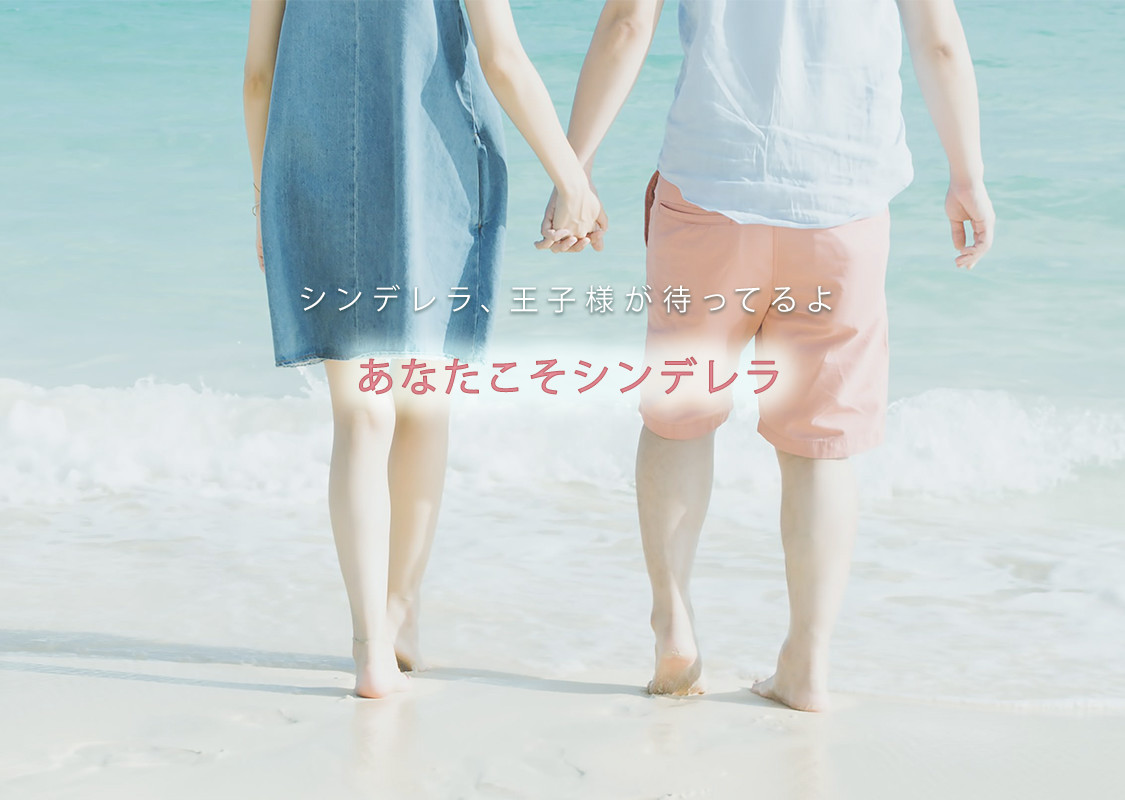
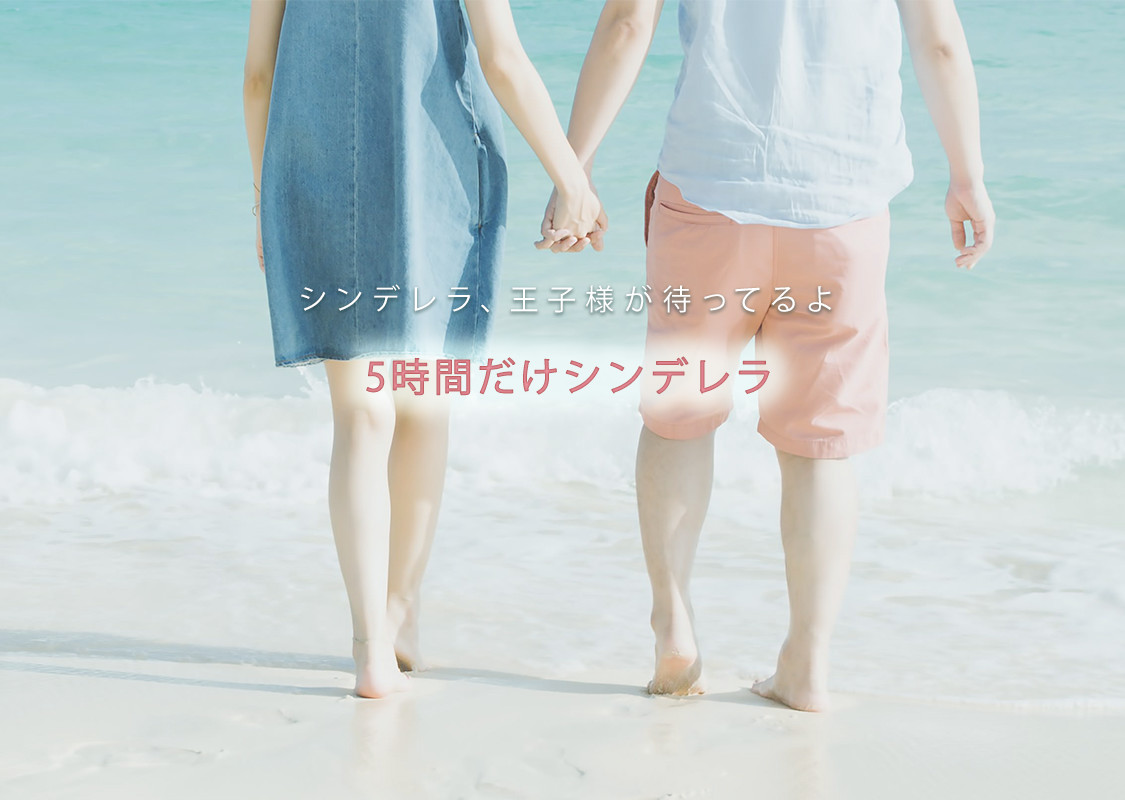
タイトルとかを5時間のに変更

Changed region(s): [[0.28, 0.4375, 0.7156, 0.5]]

diff --git a/public/contact.html b/public/contact.html
@@ -3,8 +3,8 @@
   <head>
     <meta charset="utf-8">
     <!-- meta-->
-    <title>シンデレラ、王子様が待ってるよ「あなたこそシンデレラ」</title>
-    <meta name="description" content="おかえりなさい「シンデレラ」 あなたをあるべき姿、あるべきところに。 今夜、本当のあなたに戻って欲しい。">
+    <title>「5時間だけシンデレラ」胸キュン恋愛アプリ</title>
+    <meta name="description" content="19時〜24時の「5時間限定」で運命が訪れる。新感覚！恋愛アプリ「5時間だけシンデレラ」">
     <link rel="shortcut icon" href="/img/favicon.png" type="image/vnd.microsoft.icon">
     <link rel="icon" href="/img/favicon.png" type="image/vnd.microsoft.icon">
     <meta http-equiv="X-UA-Compatible" content="IE=Edge">
@@ -18,14 +18,14 @@
     <meta property="og:image:width" content="1200">
     <meta property="og:image:height" content="630">
     <meta property="og:type" content="website">
-    <meta property="og:title" content="シンデレラ、王子様が待ってるよ「あなたこそシンデレラ」">
-    <meta property="og:site_name" content="シンデレラ、王子様が待ってるよ「あなたこそシンデレラ」">
-    <meta property="og:description" content="おかえりなさい「シンデレラ」 あなたをあるべき姿、あるべきところに。 今夜、本当のあなたに戻って欲しい。">
+    <meta property="og:title" content="「5時間だけシンデレラ」胸キュン恋愛アプリ">
+    <meta property="og:site_name" content="「5時間だけシンデレラ」胸キュン恋愛アプリ">
+    <meta property="og:description" content="19時〜24時の「5時間限定」で運命が訪れる。新感覚！恋愛アプリ「5時間だけシンデレラ」">
     <meta property="og:locale" content="ja_JP">
     <!-- twitter card-->
     <meta property="twitter:card" content="summary_large_image">
-    <meta property="twitter:title" content="シンデレラ、王子様が待ってるよ「あなたこそシンデレラ」">
-    <meta property="twitter:description" content="おかえりなさい「シンデレラ」 あなたをあるべき姿、あるべきところに。 今夜、本当のあなたに戻って欲しい。">
+    <meta property="twitter:title" content="「5時間だけシンデレラ」胸キュン恋愛アプリ">
+    <meta property="twitter:description" content="19時〜24時の「5時間限定」で運命が訪れる。新感覚！恋愛アプリ「5時間だけシンデレラ」">
     <meta property="twitter:image" content="https://cinderella-castle.com/img/ogp.jpg">
     <!-- canonical url-->
     <link rel="canonical" href="https://cinderella-castle.com">

diff --git a/public/index.html b/public/index.html
@@ -3,8 +3,8 @@
   <head>
     <meta charset="utf-8">
     <!-- meta-->
-    <title>シンデレラ、王子様が待ってるよ「あなたこそシンデレラ」</title>
-    <meta name="description" content="おかえりなさい「シンデレラ」 あなたをあるべき姿、あるべきところに。 今夜、本当のあなたに戻って欲しい。">
+    <title>「5時間だけシンデレラ」胸キュン恋愛アプリ</title>
+    <meta name="description" content="19時〜24時の「5時間限定」で運命が訪れる。新感覚！恋愛アプリ「5時間だけシンデレラ」">
     <link rel="shortcut icon" href="/img/favicon.png" type="image/vnd.microsoft.icon">
     <link rel="icon" href="/img/favicon.png" type="image/vnd.microsoft.icon">
     <meta http-equiv="X-UA-Compatible" content="IE=Edge">
@@ -18,14 +18,14 @@
     <meta property="og:image:width" content="1200">
     <meta property="og:image:height" content="630">
     <meta property="og:type" content="website">
-    <meta property="og:title" content="シンデレラ、王子様が待ってるよ「あなたこそシンデレラ」">
-    <meta property="og:site_name" content="シンデレラ、王子様が待ってるよ「あなたこそシンデレラ」">
-    <meta property="og:description" content="おかえりなさい「シンデレラ」 あなたをあるべき姿、あるべきところに。 今夜、本当のあなたに戻って欲しい。">
+    <meta property="og:title" content="「5時間だけシンデレラ」胸キュン恋愛アプリ">
+    <meta property="og:site_name" content="「5時間だけシンデレラ」胸キュン恋愛アプリ">
+    <meta property="og:description" content="19時〜24時の「5時間限定」で運命が訪れる。新感覚！恋愛アプリ「5時間だけシンデレラ」">
     <meta property="og:locale" content="ja_JP">
     <!-- twitter card-->
     <meta property="twitter:card" content="summary_large_image">
-    <meta property="twitter:title" content="シンデレラ、王子様が待ってるよ「あなたこそシンデレラ」">
-    <meta property="twitter:description" content="おかえりなさい「シンデレラ」 あなたをあるべき姿、あるべきところに。 今夜、本当のあなたに戻って欲しい。">
+    <meta property="twitter:title" content="「5時間だけシンデレラ」胸キュン恋愛アプリ">
+    <meta property="twitter:description" content="19時〜24時の「5時間限定」で運命が訪れる。新感覚！恋愛アプリ「5時間だけシンデレラ」">
     <meta property="twitter:image" content="https://cinderella-castle.com/img/ogp.jpg">
     <!-- canonical url-->
     <link rel="canonical" href="https://cinderella-castle.com">

diff --git a/public/law.html b/public/law.html
@@ -3,8 +3,8 @@
   <head>
     <meta charset="utf-8">
     <!-- meta-->
-    <title>シンデレラ、王子様が待ってるよ「あなたこそシンデレラ」</title>
-    <meta name="description" content="おかえりなさい「シンデレラ」 あなたをあるべき姿、あるべきところに。 今夜、本当のあなたに戻って欲しい。">
+    <title>「5時間だけシンデレラ」胸キュン恋愛アプリ</title>
+    <meta name="description" content="19時〜24時の「5時間限定」で運命が訪れる。新感覚！恋愛アプリ「5時間だけシンデレラ」">
     <link rel="shortcut icon" href="/img/favicon.png" type="image/vnd.microsoft.icon">
     <link rel="icon" href="/img/favicon.png" type="image/vnd.microsoft.icon">
     <meta http-equiv="X-UA-Compatible" content="IE=Edge">
@@ -18,14 +18,14 @@
     <meta property="og:image:width" content="1200">
     <meta property="og:image:height" content="630">
     <meta property="og:type" content="website">
-    <meta property="og:title" content="シンデレラ、王子様が待ってるよ「あなたこそシンデレラ」">
-    <meta property="og:site_name" content="シンデレラ、王子様が待ってるよ「あなたこそシンデレラ」">
-    <meta property="og:description" content="おかえりなさい「シンデレラ」 あなたをあるべき姿、あるべきところに。 今夜、本当のあなたに戻って欲しい。">
+    <meta property="og:title" content="「5時間だけシンデレラ」胸キュン恋愛アプリ">
+    <meta property="og:site_name" content="「5時間だけシンデレラ」胸キュン恋愛アプリ">
+    <meta property="og:description" content="19時〜24時の「5時間限定」で運命が訪れる。新感覚！恋愛アプリ「5時間だけシンデレラ」">
     <meta property="og:locale" content="ja_JP">
     <!-- twitter card-->
     <meta property="twitter:card" content="summary_large_image">
-    <meta property="twitter:title" content="シンデレラ、王子様が待ってるよ「あなたこそシンデレラ」">
-    <meta property="twitter:description" content="おかえりなさい「シンデレラ」 あなたをあるべき姿、あるべきところに。 今夜、本当のあなたに戻って欲しい。">
+    <meta property="twitter:title" content="「5時間だけシンデレラ」胸キュン恋愛アプリ">
+    <meta property="twitter:description" content="19時〜24時の「5時間限定」で運命が訪れる。新感覚！恋愛アプリ「5時間だけシンデレラ」">
     <meta property="twitter:image" content="https://cinderella-castle.com/img/ogp.jpg">
     <!-- canonical url-->
     <link rel="canonical" href="https://cinderella-castle.com">

diff --git a/public/point.html b/public/point.html
@@ -3,8 +3,8 @@
   <head>
     <meta charset="utf-8">
     <!-- meta-->
-    <title>シンデレラ、王子様が待ってるよ「あなたこそシンデレラ」</title>
-    <meta name="description" content="おかえりなさい「シンデレラ」 あなたをあるべき姿、あるべきところに。 今夜、本当のあなたに戻って欲しい。">
+    <title>「5時間だけシンデレラ」胸キュン恋愛アプリ</title>
+    <meta name="description" content="19時〜24時の「5時間限定」で運命が訪れる。新感覚！恋愛アプリ「5時間だけシンデレラ」">
     <link rel="shortcut icon" href="/img/favicon.png" type="image/vnd.microsoft.icon">
     <link rel="icon" href="/img/favicon.png" type="image/vnd.microsoft.icon">
     <meta http-equiv="X-UA-Compatible" content="IE=Edge">
@@ -18,14 +18,14 @@
     <meta property="og:image:width" content="1200">
     <meta property="og:image:height" content="630">
     <meta property="og:type" content="website">
-    <meta property="og:title" content="シンデレラ、王子様が待ってるよ「あなたこそシンデレラ」">
-    <meta property="og:site_name" content="シンデレラ、王子様が待ってるよ「あなたこそシンデレラ」">
-    <meta property="og:description" content="おかえりなさい「シンデレラ」 あなたをあるべき姿、あるべきところに。 今夜、本当のあなたに戻って欲しい。">
+    <meta property="og:title" content="「5時間だけシンデレラ」胸キュン恋愛アプリ">
+    <meta property="og:site_name" content="「5時間だけシンデレラ」胸キュン恋愛アプリ">
+    <meta property="og:description" content="19時〜24時の「5時間限定」で運命が訪れる。新感覚！恋愛アプリ「5時間だけシンデレラ」">
     <meta property="og:locale" content="ja_JP">
     <!-- twitter card-->
     <meta property="twitter:card" content="summary_large_image">
-    <meta property="twitter:title" content="シンデレラ、王子様が待ってるよ「あなたこそシンデレラ」">
-    <meta property="twitter:description" content="おかえりなさい「シンデレラ」 あなたをあるべき姿、あるべきところに。 今夜、本当のあなたに戻って欲しい。">
+    <meta property="twitter:title" content="「5時間だけシンデレラ」胸キュン恋愛アプリ">
+    <meta property="twitter:description" content="19時〜24時の「5時間限定」で運命が訪れる。新感覚！恋愛アプリ「5時間だけシンデレラ」">
     <meta property="twitter:image" content="https://cinderella-castle.com/img/ogp.jpg">
     <!-- canonical url-->
     <link rel="canonical" href="https://cinderella-castle.com">

diff --git a/public/privacy.html b/public/privacy.html
@@ -3,8 +3,8 @@
   <head>
     <meta charset="utf-8">
     <!-- meta-->
-    <title>シンデレラ、王子様が待ってるよ「あなたこそシンデレラ」</title>
-    <meta name="description" content="おかえりなさい「シンデレラ」 あなたをあるべき姿、あるべきところに。 今夜、本当のあなたに戻って欲しい。">
+    <title>「5時間だけシンデレラ」胸キュン恋愛アプリ</title>
+    <meta name="description" content="19時〜24時の「5時間限定」で運命が訪れる。新感覚！恋愛アプリ「5時間だけシンデレラ」">
     <link rel="shortcut icon" href="/img/favicon.png" type="image/vnd.microsoft.icon">
     <link rel="icon" href="/img/favicon.png" type="image/vnd.microsoft.icon">
     <meta http-equiv="X-UA-Compatible" content="IE=Edge">
@@ -18,14 +18,14 @@
     <meta property="og:image:width" content="1200">
     <meta property="og:image:height" content="630">
     <meta property="og:type" content="website">
-    <meta property="og:title" content="シンデレラ、王子様が待ってるよ「あなたこそシンデレラ」">
-    <meta property="og:site_name" content="シンデレラ、王子様が待ってるよ「あなたこそシンデレラ」">
-    <meta property="og:description" content="おかえりなさい「シンデレラ」 あなたをあるべき姿、あるべきところに。 今夜、本当のあなたに戻って欲しい。">
+    <meta property="og:title" content="「5時間だけシンデレラ」胸キュン恋愛アプリ">
+    <meta property="og:site_name" content="「5時間だけシンデレラ」胸キュン恋愛アプリ">
+    <meta property="og:description" content="19時〜24時の「5時間限定」で運命が訪れる。新感覚！恋愛アプリ「5時間だけシンデレラ」">
     <meta property="og:locale" content="ja_JP">
     <!-- twitter card-->
     <meta property="twitter:card" content="summary_large_image">
-    <meta property="twitter:title" content="シンデレラ、王子様が待ってるよ「あなたこそシンデレラ」">
-    <meta property="twitter:description" content="おかえりなさい「シンデレラ」 あなたをあるべき姿、あるべきところに。 今夜、本当のあなたに戻って欲しい。">
+    <meta property="twitter:title" content="「5時間だけシンデレラ」胸キュン恋愛アプリ">
+    <meta property="twitter:description" content="19時〜24時の「5時間限定」で運命が訪れる。新感覚！恋愛アプリ「5時間だけシンデレラ」">
     <meta property="twitter:image" content="https://cinderella-castle.com/img/ogp.jpg">
     <!-- canonical url-->
     <link rel="canonical" href="https://cinderella-castle.com">

diff --git a/public/process_prince.html b/public/process_prince.html
@@ -3,8 +3,8 @@
   <head>
     <meta charset="utf-8">
     <!-- meta-->
-    <title>シンデレラ、王子様が待ってるよ「あなたこそシンデレラ」</title>
-    <meta name="description" content="おかえりなさい「シンデレラ」 あなたをあるべき姿、あるべきところに。 今夜、本当のあなたに戻って欲しい。">
+    <title>「5時間だけシンデレラ」胸キュン恋愛アプリ</title>
+    <meta name="description" content="19時〜24時の「5時間限定」で運命が訪れる。新感覚！恋愛アプリ「5時間だけシンデレラ」">
     <link rel="shortcut icon" href="/img/favicon.png" type="image/vnd.microsoft.icon">
     <link rel="icon" href="/img/favicon.png" type="image/vnd.microsoft.icon">
     <meta http-equiv="X-UA-Compatible" content="IE=Edge">
@@ -18,14 +18,14 @@
     <meta property="og:image:width" content="1200">
     <meta property="og:image:height" content="630">
     <meta property="og:type" content="website">
-    <meta property="og:title" content="シンデレラ、王子様が待ってるよ「あなたこそシンデレラ」">
-    <meta property="og:site_name" content="シンデレラ、王子様が待ってるよ「あなたこそシンデレラ」">
-    <meta property="og:description" content="おかえりなさい「シンデレラ」 あなたをあるべき姿、あるべきところに。 今夜、本当のあなたに戻って欲しい。">
+    <meta property="og:title" content="「5時間だけシンデレラ」胸キュン恋愛アプリ">
+    <meta property="og:site_name" content="「5時間だけシンデレラ」胸キュン恋愛アプリ">
+    <meta property="og:description" content="19時〜24時の「5時間限定」で運命が訪れる。新感覚！恋愛アプリ「5時間だけシンデレラ」">
     <meta property="og:locale" content="ja_JP">
     <!-- twitter card-->
     <meta property="twitter:card" content="summary_large_image">
-    <meta property="twitter:title" content="シンデレラ、王子様が待ってるよ「あなたこそシンデレラ」">
-    <meta property="twitter:description" content="おかえりなさい「シンデレラ」 あなたをあるべき姿、あるべきところに。 今夜、本当のあなたに戻って欲しい。">
+    <meta property="twitter:title" content="「5時間だけシンデレラ」胸キュン恋愛アプリ">
+    <meta property="twitter:description" content="19時〜24時の「5時間限定」で運命が訪れる。新感覚！恋愛アプリ「5時間だけシンデレラ」">
     <meta property="twitter:image" content="https://cinderella-castle.com/img/ogp.jpg">
     <!-- canonical url-->
     <link rel="canonical" href="https://cinderella-castle.com">

diff --git a/public/process_princess.html b/public/process_princess.html
@@ -3,8 +3,8 @@
   <head>
     <meta charset="utf-8">
     <!-- meta-->
-    <title>シンデレラ、王子様が待ってるよ「あなたこそシンデレラ」</title>
-    <meta name="description" content="おかえりなさい「シンデレラ」 あなたをあるべき姿、あるべきところに。 今夜、本当のあなたに戻って欲しい。">
+    <title>「5時間だけシンデレラ」胸キュン恋愛アプリ</title>
+    <meta name="description" content="19時〜24時の「5時間限定」で運命が訪れる。新感覚！恋愛アプリ「5時間だけシンデレラ」">
     <link rel="shortcut icon" href="/img/favicon.png" type="image/vnd.microsoft.icon">
     <link rel="icon" href="/img/favicon.png" type="image/vnd.microsoft.icon">
     <meta http-equiv="X-UA-Compatible" content="IE=Edge">
@@ -18,14 +18,14 @@
     <meta property="og:image:width" content="1200">
     <meta property="og:image:height" content="630">
     <meta property="og:type" content="website">
-    <meta property="og:title" content="シンデレラ、王子様が待ってるよ「あなたこそシンデレラ」">
-    <meta property="og:site_name" content="シンデレラ、王子様が待ってるよ「あなたこそシンデレラ」">
-    <meta property="og:description" content="おかえりなさい「シンデレラ」 あなたをあるべき姿、あるべきところに。 今夜、本当のあなたに戻って欲しい。">
+    <meta property="og:title" content="「5時間だけシンデレラ」胸キュン恋愛アプリ">
+    <meta property="og:site_name" content="「5時間だけシンデレラ」胸キュン恋愛アプリ">
+    <meta property="og:description" content="19時〜24時の「5時間限定」で運命が訪れる。新感覚！恋愛アプリ「5時間だけシンデレラ」">
     <meta property="og:locale" content="ja_JP">
     <!-- twitter card-->
     <meta property="twitter:card" content="summary_large_image">
-    <meta property="twitter:title" content="シンデレラ、王子様が待ってるよ「あなたこそシンデレラ」">
-    <meta property="twitter:description" content="おかえりなさい「シンデレラ」 あなたをあるべき姿、あるべきところに。 今夜、本当のあなたに戻って欲しい。">
+    <meta property="twitter:title" content="「5時間だけシンデレラ」胸キュン恋愛アプリ">
+    <meta property="twitter:description" content="19時〜24時の「5時間限定」で運命が訪れる。新感覚！恋愛アプリ「5時間だけシンデレラ」">
     <meta property="twitter:image" content="https://cinderella-castle.com/img/ogp.jpg">
     <!-- canonical url-->
     <link rel="canonical" href="https://cinderella-castle.com">

diff --git a/public/terms.html b/public/terms.html
@@ -3,8 +3,8 @@
   <head>
     <meta charset="utf-8">
     <!-- meta-->
-    <title>シンデレラ、王子様が待ってるよ「あなたこそシンデレラ」</title>
-    <meta name="description" content="おかえりなさい「シンデレラ」 あなたをあるべき姿、あるべきところに。 今夜、本当のあなたに戻って欲しい。">
+    <title>「5時間だけシンデレラ」胸キュン恋愛アプリ</title>
+    <meta name="description" content="19時〜24時の「5時間限定」で運命が訪れる。新感覚！恋愛アプリ「5時間だけシンデレラ」">
     <link rel="shortcut icon" href="/img/favicon.png" type="image/vnd.microsoft.icon">
     <link rel="icon" href="/img/favicon.png" type="image/vnd.microsoft.icon">
     <meta http-equiv="X-UA-Compatible" content="IE=Edge">
@@ -18,14 +18,14 @@
     <meta property="og:image:width" content="1200">
     <meta property="og:image:height" content="630">
     <meta property="og:type" content="website">
-    <meta property="og:title" content="シンデレラ、王子様が待ってるよ「あなたこそシンデレラ」">
-    <meta property="og:site_name" content="シンデレラ、王子様が待ってるよ「あなたこそシンデレラ」">
-    <meta property="og:description" content="おかえりなさい「シンデレラ」 あなたをあるべき姿、あるべきところに。 今夜、本当のあなたに戻って欲しい。">
+    <meta property="og:title" content="「5時間だけシンデレラ」胸キュン恋愛アプリ">
+    <meta property="og:site_name" content="「5時間だけシンデレラ」胸キュン恋愛アプリ">
+    <meta property="og:description" content="19時〜24時の「5時間限定」で運命が訪れる。新感覚！恋愛アプリ「5時間だけシンデレラ」">
     <meta property="og:locale" content="ja_JP">
     <!-- twitter card-->
     <meta property="twitter:card" content="summary_large_image">
-    <meta property="twitter:title" content="シンデレラ、王子様が待ってるよ「あなたこそシンデレラ」">
-    <meta property="twitter:description" content="おかえりなさい「シンデレラ」 あなたをあるべき姿、あるべきところに。 今夜、本当のあなたに戻って欲しい。">
+    <meta property="twitter:title" content="「5時間だけシンデレラ」胸キュン恋愛アプリ">
+    <meta property="twitter:description" content="19時〜24時の「5時間限定」で運命が訪れる。新感覚！恋愛アプリ「5時間だけシンデレラ」">
     <meta property="twitter:image" content="https://cinderella-castle.com/img/ogp.jpg">
     <!-- canonical url-->
     <link rel="canonical" href="https://cinderella-castle.com">
